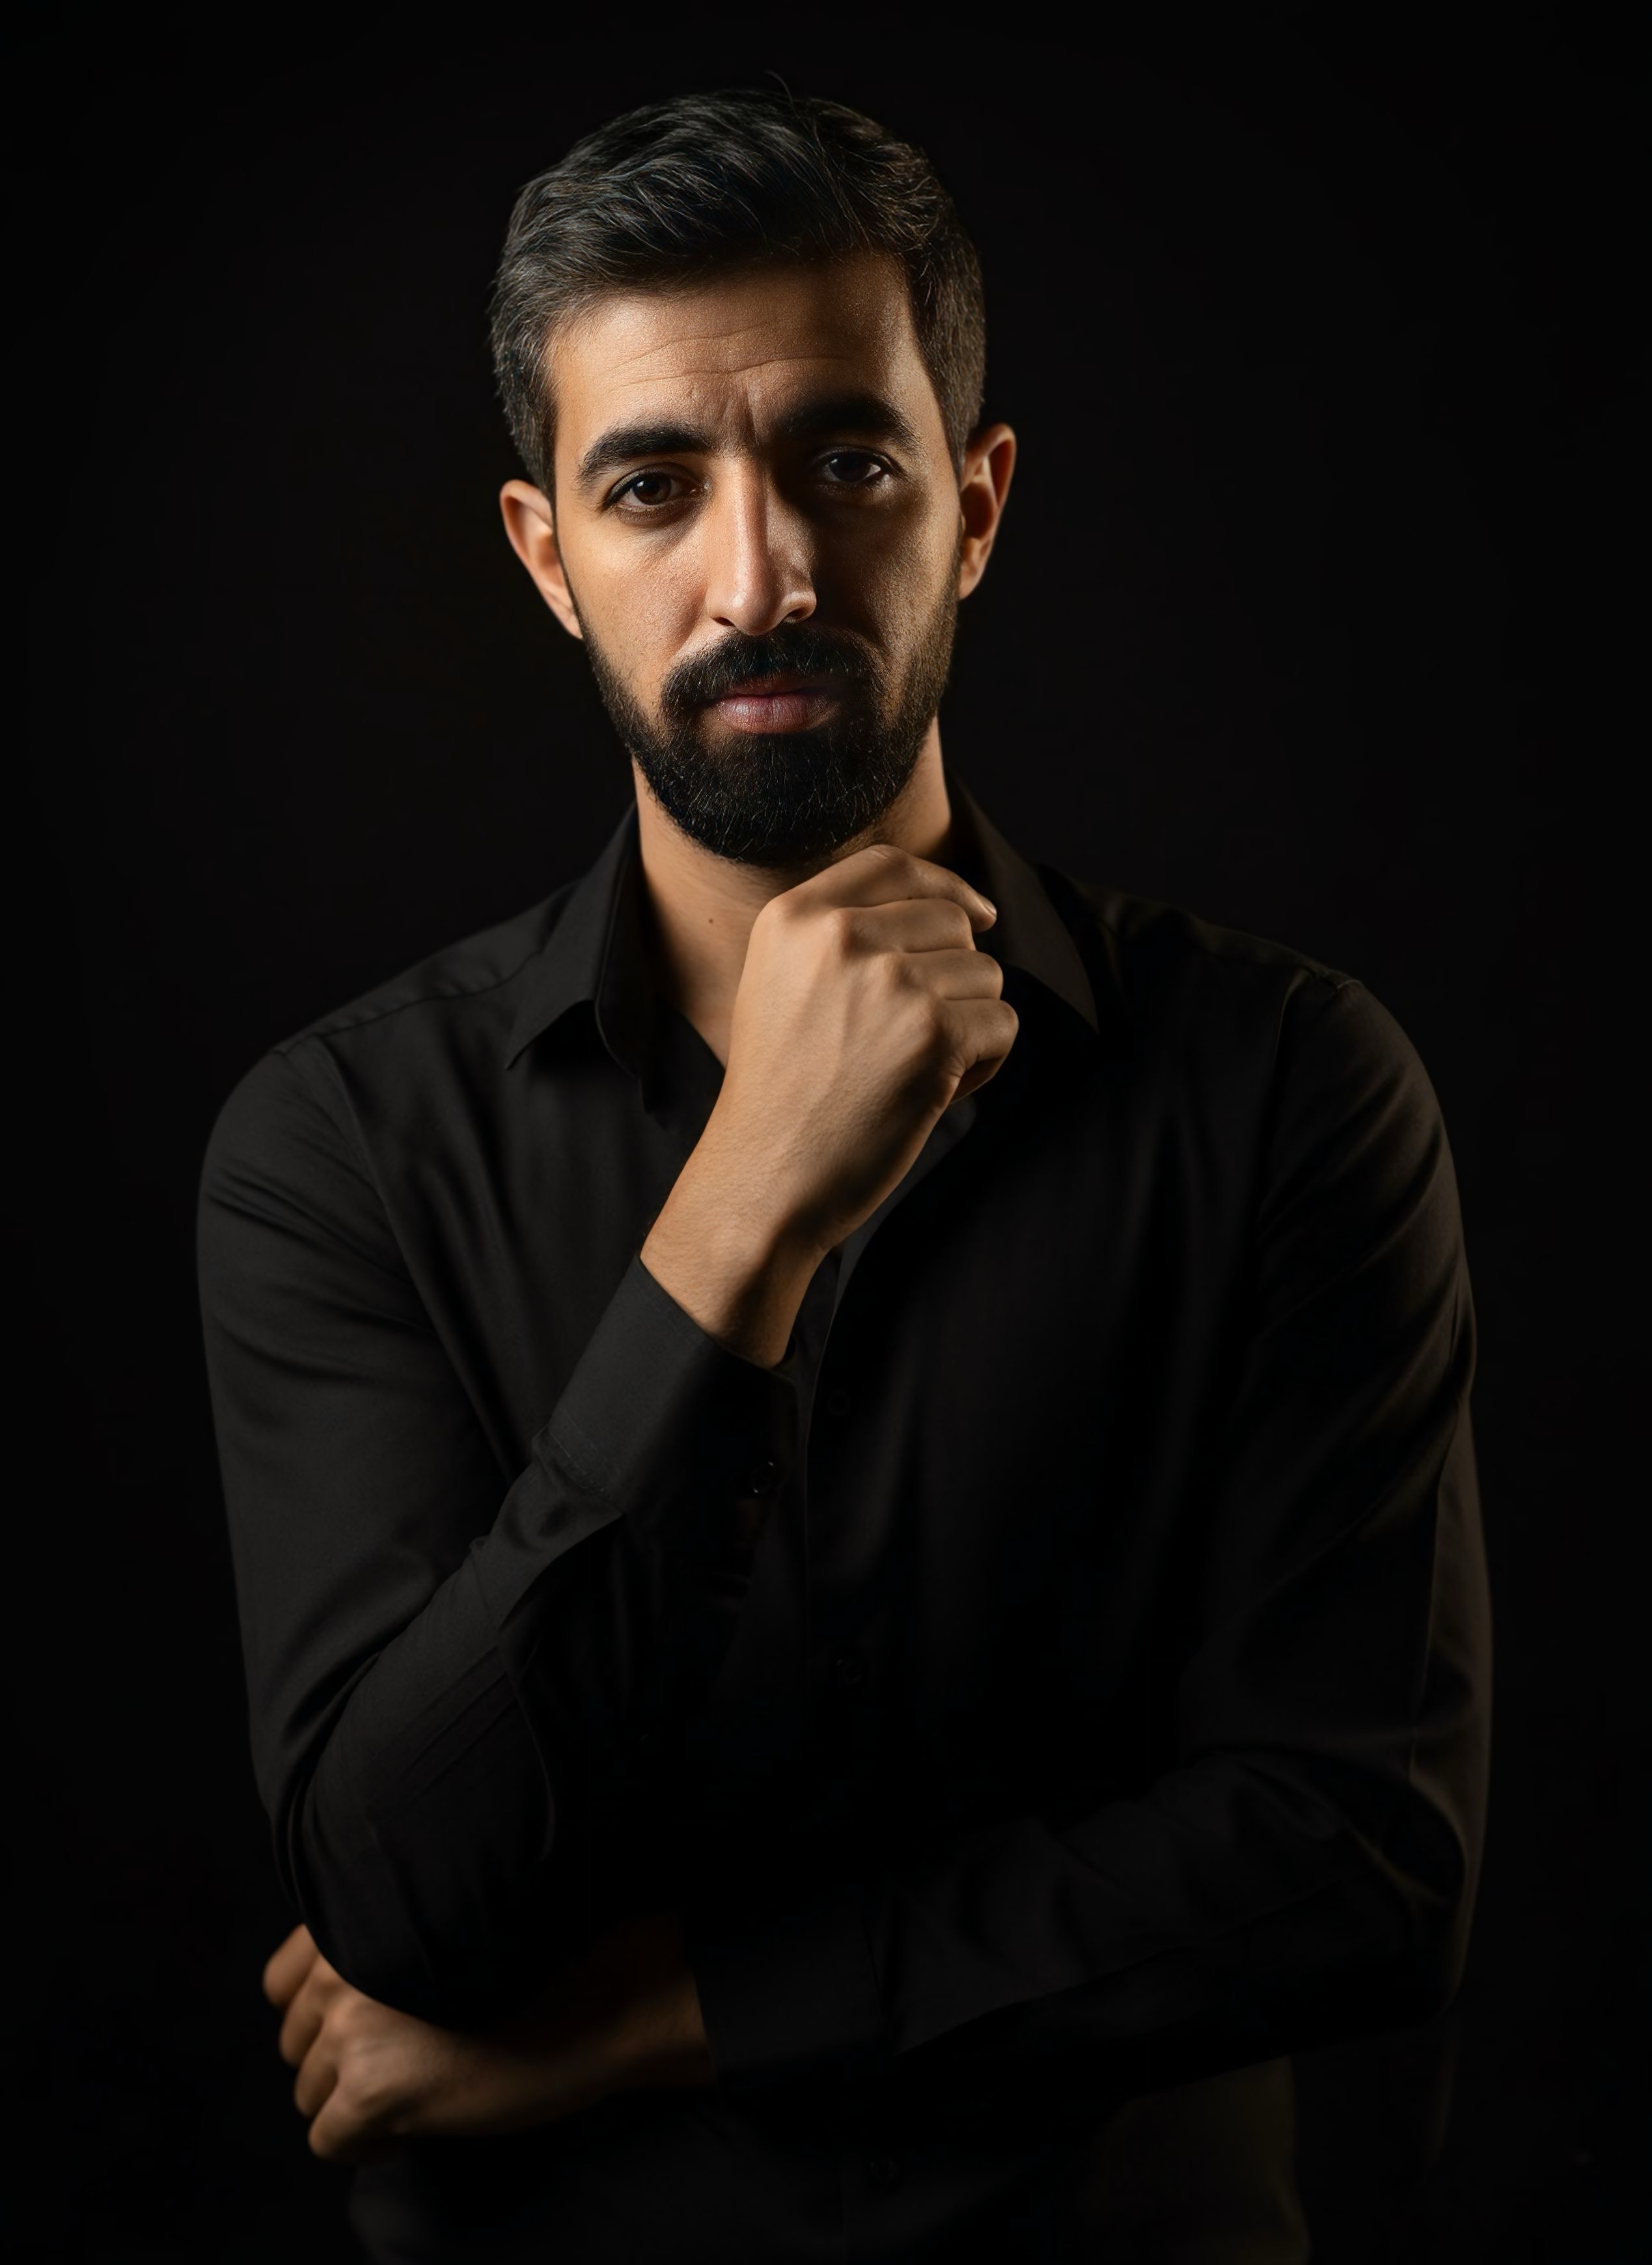
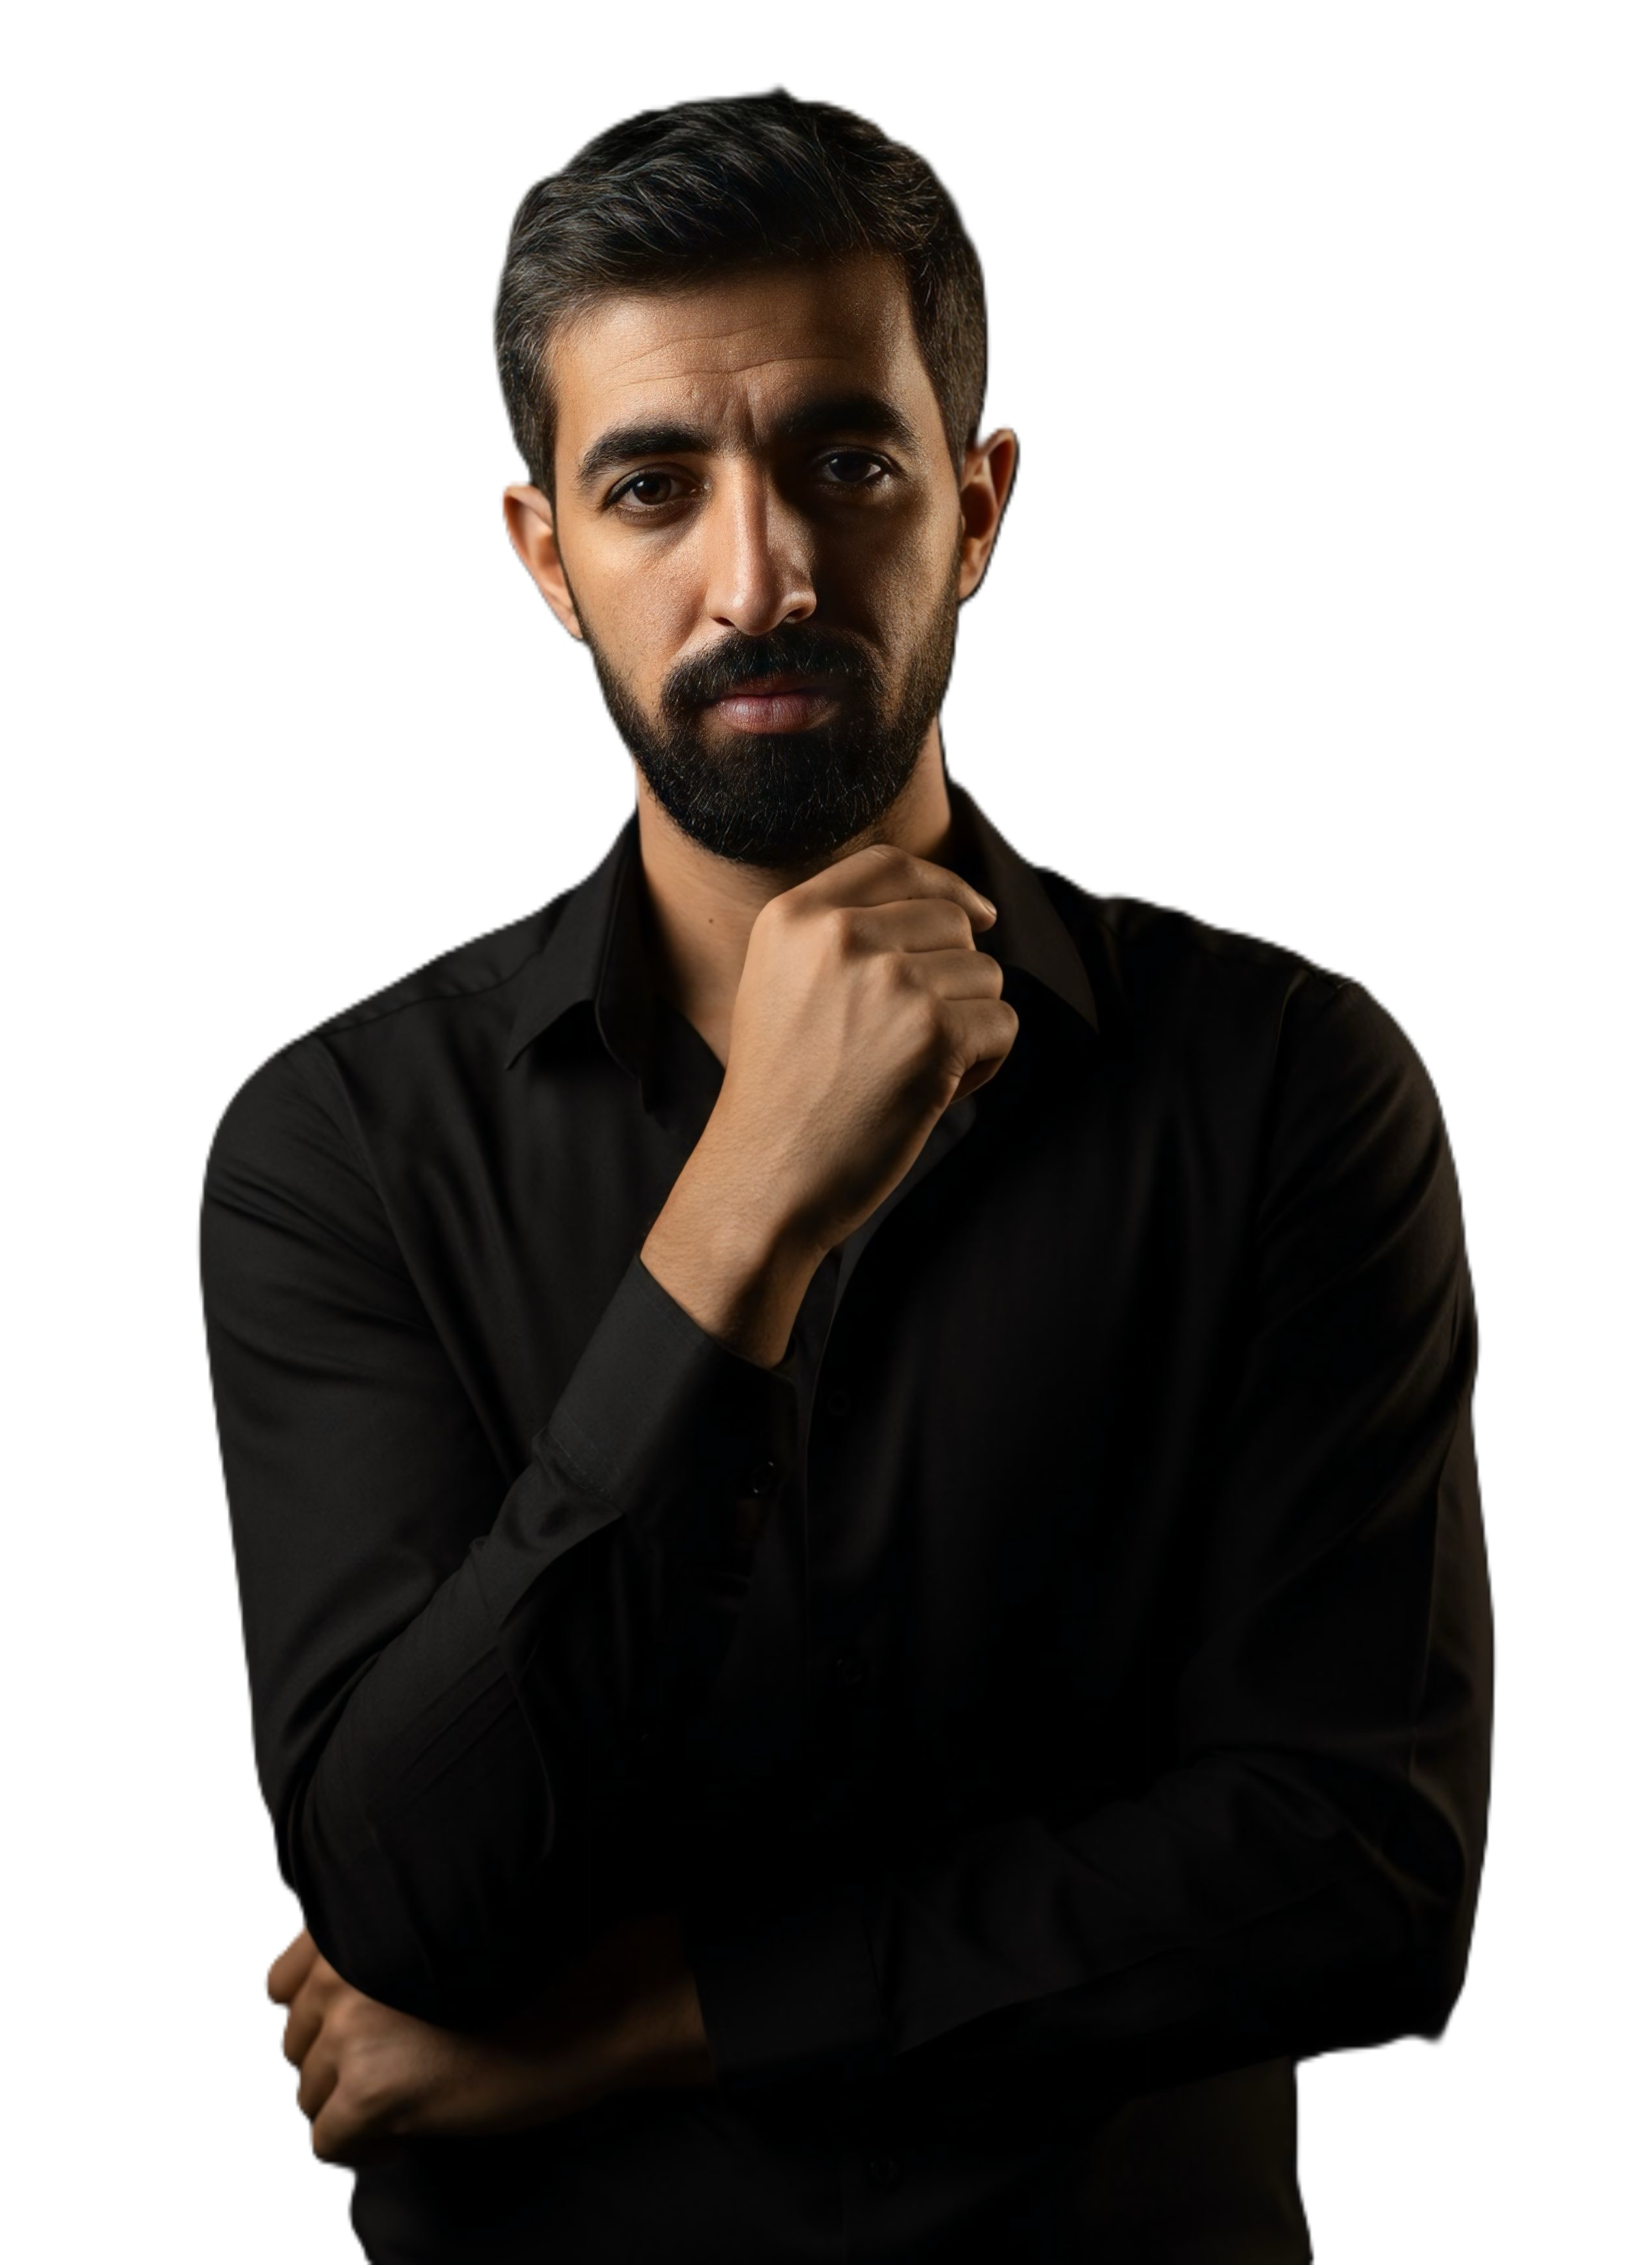
image update

diff --git a/index.html b/index.html
@@ -113,7 +113,7 @@
     <div class="row">
       <div class="about-img">
         <div class="img-box">
-          <img src="img/about-img.JPG">
+          <img src="img/about-img.png">
         </div>
       </div>
       <div class="about-text">